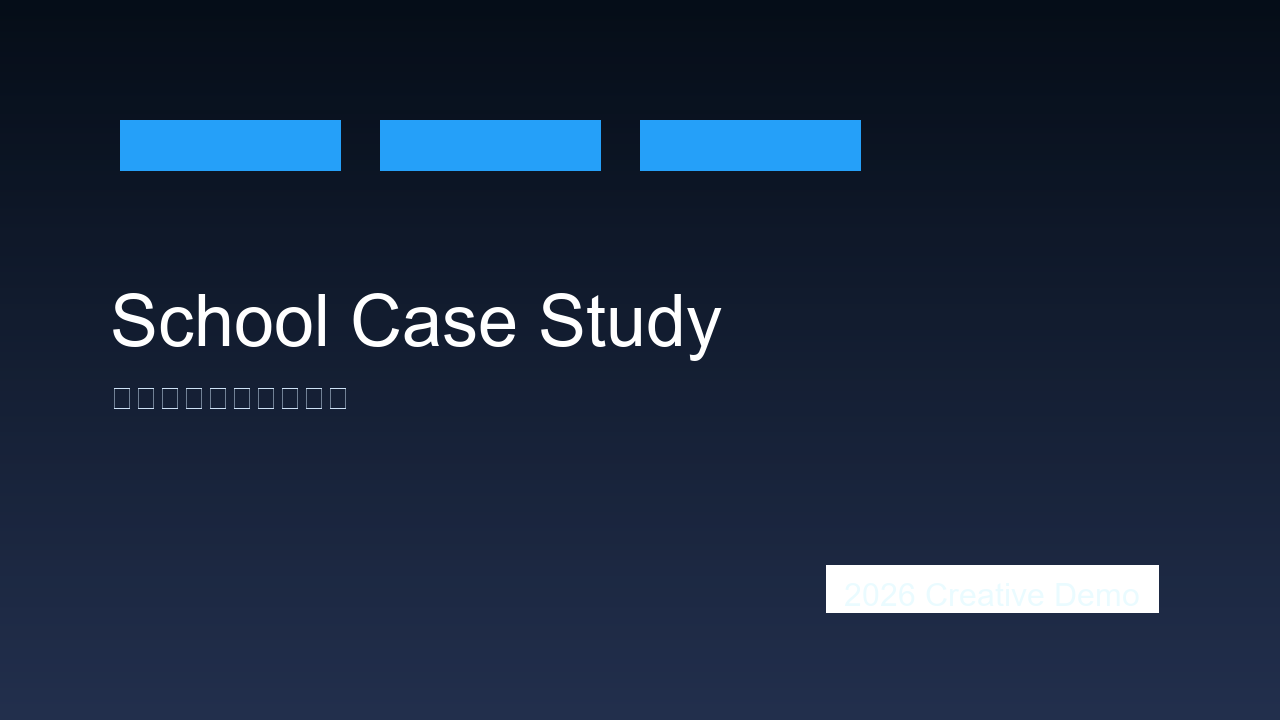
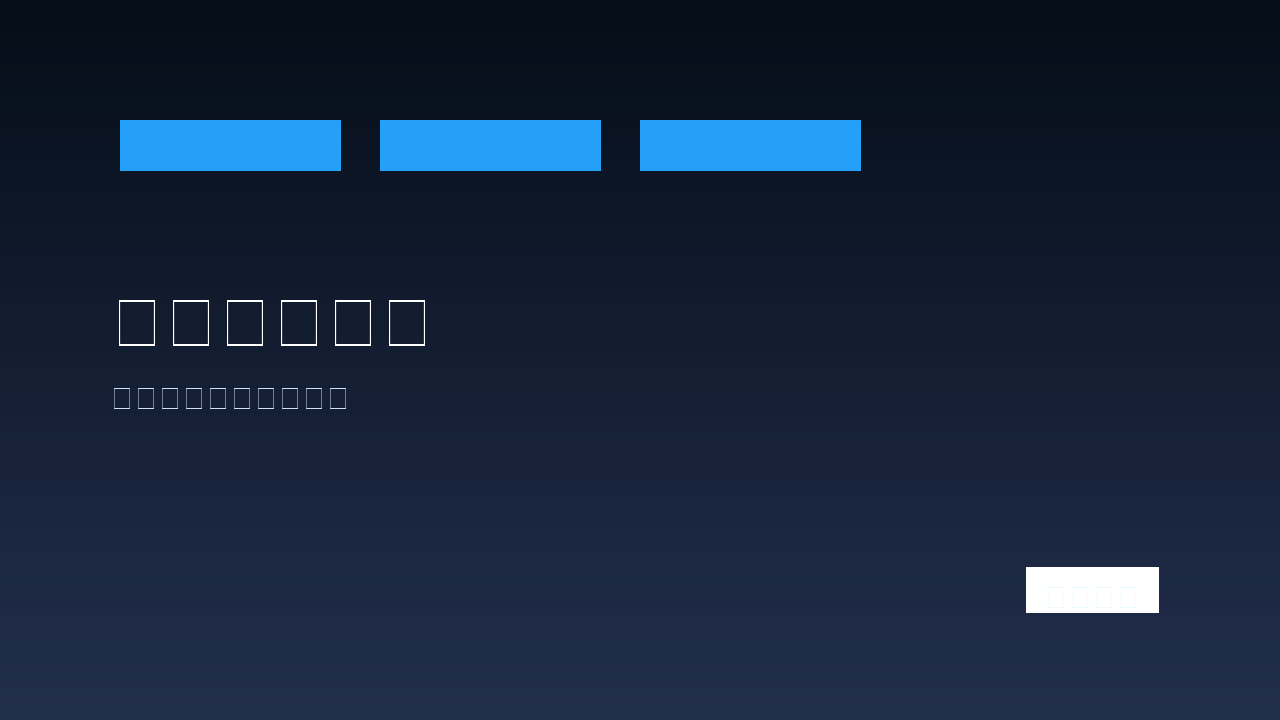
Finalize Chinese site text and update regenerated cover assets

Changed region(s): [[0.0938, 0.3972, 0.5625, 0.5194], [0.625, 0.7639, 0.8125, 0.8556]]

diff --git a/contact.html b/contact.html
@@ -71,7 +71,7 @@
         <h2>快速信息</h2>
         <div class="info-item">
           <span class="info-icon">📍</span>
-          <div class="info-body"><strong>项目目标</strong>打造 Awwwards 水平的教育品牌与作品集展示页。</div>
+          <div class="info-body"><strong>项目目标</strong>打造顶级水准的教育品牌与作品集展示页。</div>
         </div>
         <div class="info-item">
           <span class="info-icon">🎥</span>